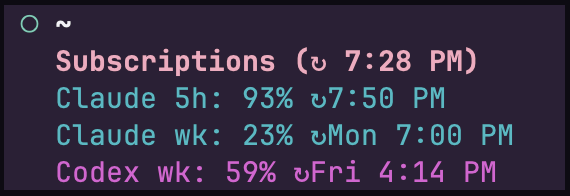
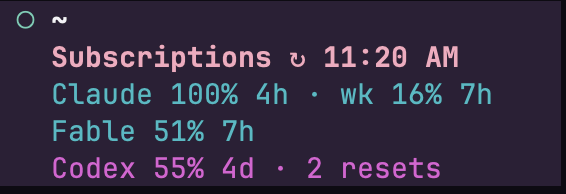
Update the README screenshot for the three-row sidebar
The screenshot shows the Claude, Fable, and Codex rows with countdowns.
PNG text, EXIF, and color-profile chunks were removed. The README drops
its text copy of the rows, which the screenshot now shows.

diff --git a/README.md b/README.md
@@ -3,18 +3,11 @@
 Shows your remaining Claude Code and Codex allowance in the Herdr sidebar.
 Refreshes hourly while you use Herdr and matches your active theme.
 
-![Claude Code and Codex allowance in the Herdr sidebar](assets/subscription-sidebar.png)
+![Claude, Fable, and Codex allowance rows in the Herdr sidebar](assets/subscription-sidebar.png)
 
 The header shows the last refresh time in AM/PM. Each row shows the remaining
 percentage and the time until it resets, in one unit: days from 48 hours, hours
 from 1 hour, and minutes below that.
-
-```text
-Subscriptions ↻ 11:20 AM
-Claude 100% 4h · wk 16% 7h
-Fable 51% 7h
-Codex 55% 4d · 2 resets
-```
 
 The Claude row shows the 5-hour allowance first, then the weekly one. The Fable
 row is the weekly Fable allowance. The Codex row ends with the number of rate

diff --git a/CHANGELOG.md b/CHANGELOG.md
@@ -1,5 +1,9 @@
 # Changelog
 
+## Unreleased
+
+- Updated the README screenshot for the three-row sidebar.
+
 ## [0.1.3](https://gitlab.com/purrly-digital-llc/herdr-stuff/subscription-watcher/-/releases/v0.1.3)
 
 - Consolidated the sidebar into three rows: `$claude`, `$fable`, and `$codex`. To upgrade, replace the `$claude_5h`, `$claude_week`, `$codex_primary`, and `$codex_secondary` rows in your sidebar config with the rows in `sidebar.example.toml`. The plugin clears the old tokens.
